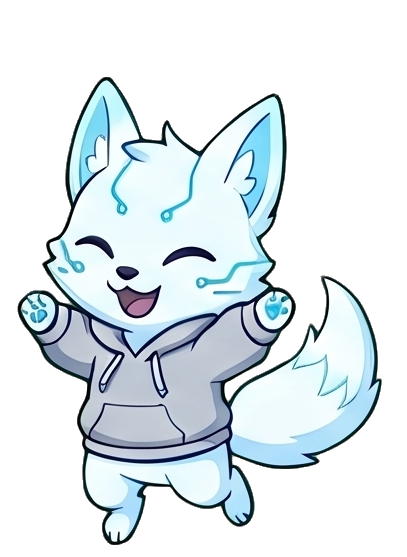
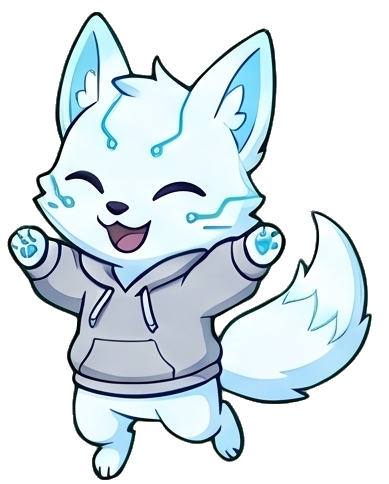
happy: regenerate as an in-place cheer (old full-jump sheet could not be registered); frames.py warns when registration hits MAXSHIFT and trims padded bases; tools/demo.py renders a shareable mood + prompt + boop video

Changed region(s): [[0.0, 0.031, 0.9563, 0.9917], [0.5244, 0.124, 0.5553, 0.155]]

diff --git a/tools/demo.py b/tools/demo.py
@@ -1,0 +1,244 @@
+"""Render a shareable demo video of a persona: every mood, then the pet following a Claude Code prompt, then a boop.
+
+  python tools/demo.py personas/orion9 --out demo/orion_demo.mp4 [--gif demo/orion_demo.gif]
+
+Uses the app's own renderer (familiar.render.compose) and frame timing, so what you see is what the pet draws.
+The Claude Code session on the left is a scripted mock-up; the footer numbers are sample values. Needs ffmpeg on PATH.
+"""
+import argparse, datetime, os, shutil, subprocess, sys, tempfile
+from PIL import Image, ImageDraw, ImageFont
+
+sys.path.insert(0, os.path.join(os.path.dirname(__file__), ".."))
+from familiar import render  # noqa: E402
+from familiar.persona import Persona, MOODS  # noqa: E402
+
+W, H, FPS = 1280, 720, 30
+PET_K = 1.35                     # pet window drawn a bit larger than on the desktop so it reads in a video
+CH = 470                         # pet window height with the footer (app.CH_STATS)
+MOOD_ORDER = ["idle", "think", "work", "wait", "happy", "alert", "sad", "gpu", "sleep"]
+MOOD_TITLES = {"idle": "Idle", "think": "Thinking", "work": "Working", "wait": "Waiting on you", "happy": "Happy",
+               "alert": "Alert", "sad": "Sad", "gpu": "GPU busy", "sleep": "Asleep"}
+
+
+def font(names, size):
+    for n in names:
+        try:
+            return ImageFont.truetype("C:/Windows/Fonts/" + n, size)
+        except Exception:
+            try:
+                return ImageFont.truetype(n, size)
+            except Exception:
+                pass
+    return ImageFont.load_default()
+
+
+F_MONO = font(["consola.ttf", "DejaVuSansMono.ttf"], 19)
+F_TITLE = font(["seguisb.ttf", "segoeuib.ttf", "DejaVuSans-Bold.ttf"], 46)
+F_SUB = font(["segoeui.ttf", "DejaVuSans.ttf"], 24)
+F_SMALL = font(["segoeui.ttf", "DejaVuSans.ttf"], 18)
+
+
+def iso_in(minutes):
+    return (datetime.datetime.now(datetime.timezone.utc) + datetime.timedelta(minutes=minutes)).isoformat()
+
+
+def stats(five=38, gpu_load=12, gpu_temp=48, cpu=9):
+    return {"system": {"cpu": {"load": cpu, "temp": 52, "power": 41}, "gpu": {"load": gpu_load, "temp": gpu_temp, "power": 60 + gpu_load * 2},
+                       "ram": {"load": 48, "free_gb": 16.2, "total_gb": 31}},
+            "claude": {"five": {"pct": five, "resets": iso_in(130)}, "week": {"pct": 21, "resets": iso_in(60 * 24 * 3 + 300)}},
+            "codex": None, "tokens": 1840000, "err": None, "hardware": True}
+
+
+class Pet:
+    """Loads frames the way app.Familiar does and picks frames with the same timing rule."""
+
+    def __init__(self, folder):
+        self.p = Persona(folder)
+        self.sprites = {}
+        for m in MOODS:
+            fs = self.p.frames(m)
+            if fs:
+                self.sprites[m] = [self.load(f) for f in fs]
+
+    def load(self, f):
+        im = Image.open(f).convert("RGBA")
+        k = self.p.scale
+        return im.resize((max(1, int(im.width * k)), max(1, int(im.height * k))), Image.LANCZOS)
+
+    def frame(self, mood, t):
+        fr = self.sprites[mood]
+        sec = self.p.frame_sec.get(mood, 0.25)
+        if len(fr) == 1 or t < sec:
+            return fr[0]
+        return fr[1 + int((t - sec) / sec) % (len(fr) - 1)]
+
+    def window(self, mood, t, bubble, st):
+        img = render.compose(self.frame(mood, t), 0, bubble, st, CH)
+        return img.resize((int(img.width * PET_K), int(img.height * PET_K)), Image.LANCZOS)
+
+
+def backdrop():
+    bg = Image.new("RGB", (W, H))
+    dr = ImageDraw.Draw(bg)
+    for y in range(H):
+        f = y / H
+        dr.line([(0, y), (W, y)], fill=(int(14 + 10 * f), int(20 + 14 * f), int(38 + 22 * f)))
+    return bg.convert("RGBA")
+
+
+def caption(dr, title, sub, y=34, x=48):
+    dr.text((x, y), title, font=F_TITLE, fill=(232, 244, 255))
+    if sub:
+        dr.text((x + 2, y + 60), sub, font=F_SUB, fill=(140, 190, 225))
+
+
+def terminal(dr, lines, box=(40, 150, 760, 680)):
+    x0, y0, x1, y1 = box
+    dr.rounded_rectangle(box, radius=12, fill=(18, 20, 26), outline=(60, 70, 90), width=2)
+    dr.rounded_rectangle((x0, y0, x1, y0 + 34), radius=12, fill=(34, 38, 48))
+    dr.rectangle((x0, y0 + 20, x1, y0 + 34), fill=(34, 38, 48))
+    for i, c in enumerate(((255, 95, 86), (255, 189, 46), (39, 201, 63))):
+        dr.ellipse((x0 + 16 + i * 22, y0 + 11, x0 + 28 + i * 22, y0 + 23), fill=c)
+    dr.text((x0 + 92, y0 + 7), "claude  ~/projects/weather-app", font=F_SMALL, fill=(150, 160, 180))
+    y = y0 + 52
+    for text, col in lines[-20:]:
+        dr.text((x0 + 18, y), text, font=F_MONO, fill=col)
+        y += 25
+
+
+# Mock Claude Code session: (start second, mood, bubble, terminal lines revealed at that time)
+USER, DOT, DIMC, OK, WARN = (235, 235, 240), (215, 120, 90), (130, 140, 155), (90, 210, 120), (240, 190, 90)
+PROMPT = "fix the failing test in forecast.py"
+SCRIPT = [
+    (2.4, "think", "think", [("● I'll look at the failing test first.", USER)]),
+    (3.6, "think", "read", [("● Read(tests/test_forecast.py)", DOT), ("  └  Read 48 lines", DIMC)]),
+    (5.6, "think", "read", [("● Read(src/forecast.py)", DOT), ("  └  Read 112 lines", DIMC),
+                            ("● The high/low are swapped when the", USER), ("  API returns Fahrenheit.", USER)]),
+    (8.4, "work", "edit", [("● Update(src/forecast.py)", DOT), ("  └  Updated with 2 additions, 2 removals", DIMC)]),
+    (10.6, "wait", "wait", [("╭ Allow Bash: pytest -q ?", WARN), ("│ > 1. Yes", WARN), ("╰   2. No", WARN)]),
+    (12.6, "work", "shell", [("● Bash(pytest -q)", DOT), ("  └  14 passed in 0.82s", OK)]),
+    (15.0, "happy", "done", [("● Fixed: the unit conversion now keeps", USER), ("  high/low in order. All 14 tests pass.", USER)]),
+    (18.0, "idle", None, []),
+]
+PROMPT_END = 20.0
+
+
+def scene_prompt(pet, t, pick):
+    """Returns (mood, mood start, bubble, terminal lines) at time t of the prompt scene."""
+    typed = PROMPT[:max(0, int((t - 0.4) * 22))]
+    lines = [("╭─────────────────────────────────────────────╮", DIMC), ("│ * Welcome to Claude Code", DIMC),
+             ("╰─────────────────────────────────────────────╯", DIMC), ("", USER),
+             ("> " + typed + ("▌" if t < 2.4 and int(t * 2) % 2 == 0 else ""), USER), ("", USER)]
+    mood, t0, bubble = "idle", 0.0, None
+    for start, m, kind, ls in SCRIPT:
+        if t < start:
+            break
+        if kind == "wait" or m != mood:
+            t0 = start if m != mood else t0
+        mood = m
+        if kind == "done":
+            bubble = pick("done")
+        elif kind:
+            bubble = pick(kind) + "…"
+        else:
+            bubble = None
+        if kind == "wait":
+            lines += ls
+        else:
+            lines = [l for l in lines if l[1] != WARN] + ls
+    if mood == "happy" and t > 17.6:
+        bubble = None
+    return mood, t0, bubble, lines
+
+
+def main():
+    ap = argparse.ArgumentParser(description=__doc__, formatter_class=argparse.RawDescriptionHelpFormatter)
+    ap.add_argument("persona")
+    ap.add_argument("--out", required=True)
+    ap.add_argument("--gif")
+    ap.add_argument("--mood-sec", type=float, default=2.6)
+    a = ap.parse_args()
+    ff = shutil.which("ffmpeg")
+    if not ff:
+        sys.exit("ffmpeg not found on PATH")
+    pet = Pet(a.persona)
+    name = pet.p.name
+    phrase = {"think": pet.p.phrases["think"][0], "read": pet.p.phrases["read"][0], "edit": pet.p.phrases["edit"][0],
+              "shell": pet.p.phrases["shell"][0], "wait": pet.p.phrases["wait"][0], "done": pet.p.done[0]}
+    bg = backdrop()
+    moods = [m for m in MOOD_ORDER if m in pet.sprites]
+    mood_bubbles = {"happy": pet.p.boops[0], "wait": phrase["wait"] + "…", "think": phrase["think"] + "…",
+                    "work": phrase["edit"] + "…", "alert": "GPU at 86°C.", "sleep": None,
+                    "sad": "Claude 5h window is nearly used up.", "gpu": None, "idle": pet.p.quips[0] if pet.p.quips else None}
+    mood_stats = {"sad": stats(five=97), "gpu": stats(gpu_load=98, gpu_temp=71), "alert": stats(gpu_load=99, gpu_temp=86),
+                  "work": stats(cpu=34), "think": stats(cpu=18)}
+
+    T_TITLE, T_MOODS = 2.5, a.mood_sec * len(moods)
+    T_PROMPT, T_BOOP = PROMPT_END, 4.5
+    total = T_TITLE + T_MOODS + 1.2 + T_PROMPT + T_BOOP
+    pet_x = W - int(render.CW * PET_K) - 40
+    pet_y = H - int(CH * PET_K) - 6
+
+    tmp = tempfile.mkdtemp(prefix="familiar_demo_")
+    n = int(total * FPS)
+    for i in range(n):
+        t = i / FPS
+        img = bg.copy()
+        dr = ImageDraw.Draw(img)
+        if t < T_TITLE:
+            mood, mt, bubble, st = "idle", t, pet.p.greeting, stats()
+            caption(dr, "Meet %s" % name, "a desktop companion for Claude Code", y=230, x=80)
+            dr.text((82, 340), "9 moods · reacts to your Claude Code session · boopable", font=F_SMALL, fill=(130, 160, 190))
+        elif t < T_TITLE + T_MOODS:
+            k = min(len(moods) - 1, int((t - T_TITLE) / a.mood_sec))
+            mood = moods[k]
+            mt = t - T_TITLE - k * a.mood_sec
+            bubble, st = mood_bubbles.get(mood), mood_stats.get(mood, stats())
+            caption(dr, "%d / %d   %s" % (k + 1, len(moods), MOOD_TITLES[mood]), "When: " + MOODS[mood], y=230, x=80)
+            for j, m in enumerate(moods):
+                cx = 84 + j * 34
+                dr.ellipse((cx, 350, cx + 14, 364), fill=(76, 201, 255) if j == k else (50, 70, 95))
+        elif t < T_TITLE + T_MOODS + 1.2:
+            mood, mt, bubble, st = "idle", t, None, stats()
+            caption(dr, "Now with a real prompt", "%s follows along while Claude Code works" % name, y=230, x=80)
+        elif t < T_TITLE + T_MOODS + 1.2 + T_PROMPT:
+            ts = t - (T_TITLE + T_MOODS + 1.2)
+            mood, t0, bubble, lines = scene_prompt(pet, ts, lambda k: phrase[k])
+            mt, st = ts - t0, stats(five=41, cpu=30 if mood == "work" else 12)
+            dr.text((44, 40), "Claude Code + %s" % name, font=F_TITLE, fill=(232, 244, 255))
+            dr.text((46, 100), "mood: " + MOOD_TITLES[mood], font=F_SUB, fill=(140, 190, 225))
+            terminal(dr, lines)
+        else:
+            tb = t - (T_TITLE + T_MOODS + 1.2 + T_PROMPT)
+            caption(dr, "And yes, you can boop him", "left-click: boop · drag: move · right-click: menu", y=230, x=80)
+            booped = tb >= 1.0
+            mood = "happy" if booped and tb < 3.5 else "idle"
+            mt = tb - 1.0 if booped and tb < 3.5 else tb
+            bubble, st = (pet.p.boops[0] if booped and tb < 4.0 else None), stats()
+        win = pet.window(mood, mt, bubble, st)
+        img.alpha_composite(win, (pet_x, pet_y))
+        if t >= total - T_BOOP:  # draw the mouse pointer for the boop
+            tb = t - (total - T_BOOP)
+            f = min(1.0, tb / 0.9)
+            px = int(W - 120 + (pet_x + win.width // 2 - (W - 120)) * f)
+            py = int(H - 60 + (pet_y + int(win.height * 0.42) - (H - 60)) * f)
+            ptr = [(px, py), (px, py + 26), (px + 7, py + 20), (px + 12, py + 31), (px + 17, py + 29), (px + 12, py + 18), (px + 21, py + 18)]
+            dr.polygon(ptr, fill=(255, 255, 255), outline=(0, 0, 0))
+            if 1.0 <= tb < 1.35:
+                r = int(10 + (tb - 1.0) * 80)
+                dr.ellipse((px - r, py - r, px + r, py + r), outline=(76, 201, 255), width=3)
+        img.convert("RGB").save(os.path.join(tmp, "f%05d.png" % i))
+
+    os.makedirs(os.path.dirname(os.path.abspath(a.out)), exist_ok=True)
+    src = ["-framerate", str(FPS), "-i", os.path.join(tmp, "f%05d.png")]
+    subprocess.run([ff, "-y", "-loglevel", "error"] + src + ["-c:v", "libx264", "-pix_fmt", "yuv420p", "-crf", "18",
+                    "-movflags", "+faststart", a.out], check=True)
+    if a.gif:
+        vf = "fps=15,scale=800:-1:flags=lanczos,split[s0][s1];[s0]palettegen=max_colors=192[p];[s1][p]paletteuse=dither=bayer:bayer_scale=4"
+        subprocess.run([ff, "-y", "-loglevel", "error"] + src + ["-vf", vf, a.gif], check=True)
+    shutil.rmtree(tmp, ignore_errors=True)
+    print("wrote", a.out, "(%.1fs, %d frames)" % (total, n), ("and " + a.gif) if a.gif else "")
+
+
+if __name__ == "__main__":
+    main()

diff --git a/tools/frames.py b/tools/frames.py
@@ -105,6 +105,11 @@ def register(frames):
     return [p.crop(box) for p in placed], shifts
 
 
+def unaligned(shifts):
+    """Indexes of frames whose registration hit the MAXSHIFT search limit: the body moved too far to line up."""
+    return [i for i, (dy, dx) in enumerate(shifts) if max(abs(int(dy)), abs(int(dx))) >= MAXSHIFT]
+
+
 def resize(a, k):
     im = Image.fromarray(a)
     return np.asarray(im.resize((max(1, round(im.width * k)), max(1, round(im.height * k))), Image.LANCZOS))
@@ -134,7 +139,8 @@ def cmd_anim(a):
     base_p = os.path.join(a.out, a.mood + "_0.png")
     if not os.path.exists(base_p):
         sys.exit("run `base` first: missing " + base_p)
-    base = np.asarray(Image.open(base_p).convert("RGBA"))
+    base_im = Image.open(base_p).convert("RGBA")
+    base = np.asarray(base_im.crop(base_im.getbbox()))  # a previous anim run leaves registration padding on the base
     cs = [c for c in cells(key_green(a.sheet), cols, rows) if c is not None]
     # Scale the animation to the base pose by body area (sqrt), median over frames: robust to wide/flat poses and
     # to one stretched frame, where bounding-box height is not.
@@ -146,7 +152,11 @@ def cmd_anim(a):
         os.remove(f)
     for i, im in enumerate(imgs):
         im.save(os.path.join(a.out, "%s_%d.png" % (a.mood, i)), optimize=True)
-    print(a.mood, "%d frames (base + %d), scale %.3f, shifts %s" % (len(imgs), len(cs), k, shifts[1:]))
+    print(a.mood, "%d frames (base + %d), scale %.3f, shifts %s" % (len(imgs), len(cs), k, [(int(y), int(x)) for y, x in shifts[1:]]))
+    bad = unaligned(shifts)
+    if bad:
+        print("WARNING %s: frames %s moved more than %dpx and could not be lined up; the loop will jitter. "
+              "Regenerate this sheet with a motion that stays in place." % (a.mood, bad, MAXSHIFT))
 
 
 def cmd_preview(a):

diff --git a/tools/generate.py b/tools/generate.py
@@ -30,7 +30,9 @@ DEFAULT_POSES = {
 DEFAULT_MOTION = {
     "idle": "gentle breathing, a slow sway, one blink in the middle of the loop",
     "sleep": "slow breathing, the Z drifts upward and fades, a new one appears at the start",
-    "happy": "a full bounce: crouch, spring up, top of the jump, come down, land, recover",
+    "happy": ("a cheer in place: the raised paws pump up and down, a small springy bob of the body, the tail wags fast; "
+              "the face keeps the same expression in every frame (if the eyes are shut in happy arcs, they stay shut); "
+              "the body never leaves its spot, no jumping or crouching"),
     "alert": "a quick nervous shake left and right, the exclamation mark pulses bigger and smaller",
     "think": "eyes glance up and to the side, small head tilt, fingers tap the chin",
     "gpu": "slow breathing, the lights on the graphics card blink in a chasing pattern",

diff --git a/tests/test_frames.py b/tests/test_frames.py
@@ -31,3 +31,13 @@ def test_grid_lines_are_not_part_of_the_character(tmp_path):
         assert all(c is not None for c in cs)
         for c in cs:
             assert c.shape[:2] == (60, 40), (line, c.shape)
+
+
+def test_register_flags_frames_it_could_not_line_up():
+    """A frame that moved further than MAXSHIFT can't be registered; anim must say so instead of shipping jitter."""
+    blob = np.zeros((120, 80, 4), np.uint8)
+    blob[20:100, 15:65] = (230, 240, 255, 255)
+    far = np.zeros((120 + frames.MAXSHIFT + 15, 80, 4), np.uint8)
+    far[95:175, 15:65] = (230, 240, 255, 255)  # same body, drawn 75px lower in its cell (a jump frame)
+    _, shifts = frames.register([blob, blob.copy(), far])
+    assert frames.unaligned(shifts) == [2]
